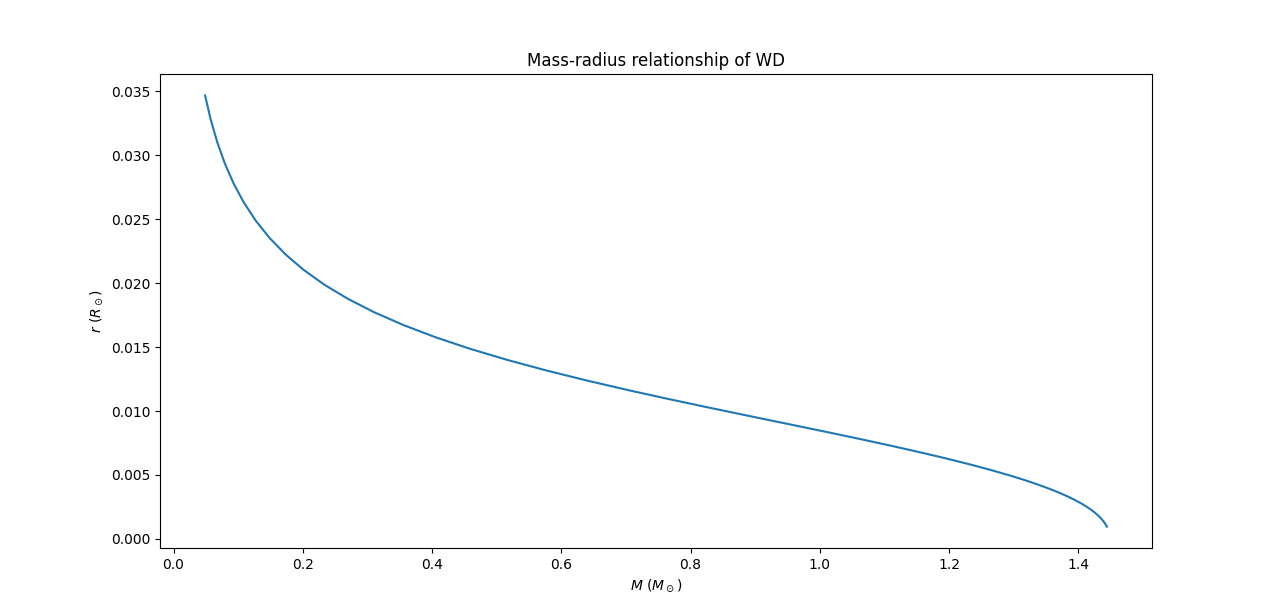
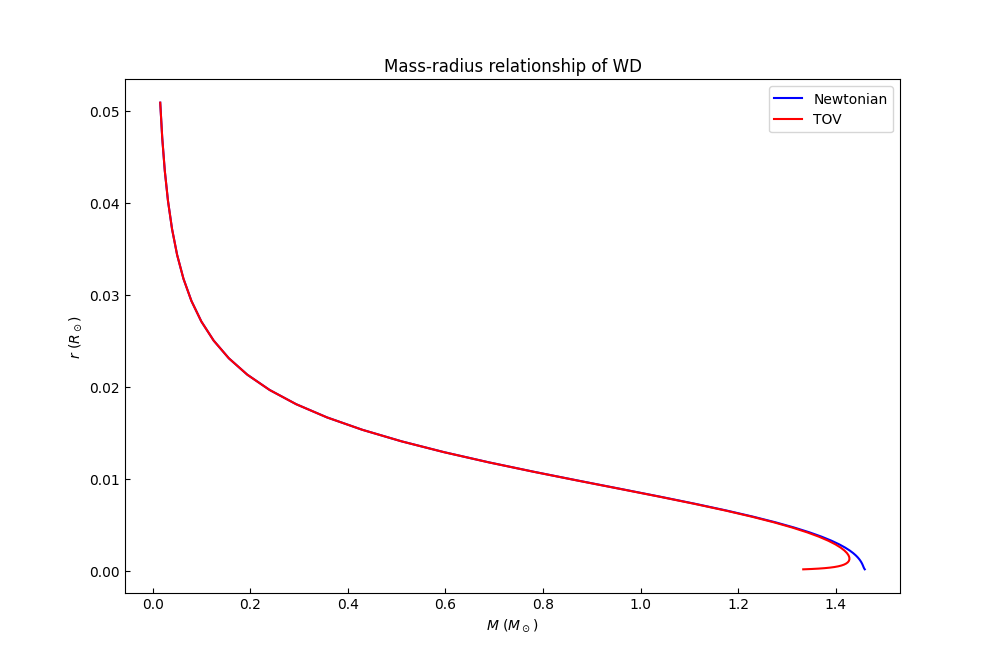
Added graph to compare Newtonian and TOV

diff --git a/main.py b/main.py
@@ -23,32 +23,41 @@ def single_test(rho0=1e9):
 
 def MR_relation(rho_low=3, rho_high=13):
     r0 = 0.0001
-    # P0 = 2.38e16
-    rho0_list = np.logspace(rho_low, rho_high, 20)
+    rho0_list = np.logspace(rho_low, rho_high, 50)
     h = 10000
     totR_list = []
     totM_list = []
+    totR_list_TOV = []
+    totM_list_TOV = []
 
     eos = SolveEOS(r0, h)
 
     for rho0 in rho0_list:
         M0 = 4/3 * cg.pi * r0**3 * rho0
-        r_list, M_list, rho_list, P_list = eos.solve_TOS(M0, rho0, TOV=False, graph_flag=False)
-        # r_list, M_list, rho_list, P_list = fn.RK4(r0, M0, rho0, h, fn.EOS, fn.dMdr, fn.drhodr_Newt)
+
+        r_list, M_list, rho_list, P_list = eos.solve_TOS(M0, rho0, TOV=False, graph_flag=False)       
         total_R = r_list[-1].real
         total_M = M_list[-1].real
 
+        r_list_TOV, M_list_TOV, rho_list_TOV, P_list_TOV = eos.solve_TOS(M0, rho0, TOV=True, graph_flag=False) 
+        total_R_TOV = r_list_TOV[-1].real
+        total_M_TOV = M_list_TOV[-1].real
+
         totR_list.append(total_R)
         totM_list.append(total_M)
+        totR_list_TOV.append(total_R_TOV)
+        totM_list_TOV.append(total_M_TOV)
 
     plt.rcParams['figure.figsize'] = [10, 10]
     fig, ax = plt.subplots()
-    ax.plot(totM_list, totR_list)
+    ax.plot(totM_list, totR_list, c='b', label='Newtonian')
+    ax.plot(totM_list_TOV, totR_list_TOV, c='r', label='TOV')
     ax.set_title('Mass-radius relationship of WD')
     ax.set_ylabel(r'$r$ ($R_\odot$)')
     ax.set_xlabel(r'$M$ ($M_\odot$)')
     ax.tick_params(axis='both', which='major', direction = 'in')
+    ax.legend()
     plt.show()
 
-single_test(1e9)
-# MR_relation()
+# single_test(1e9)
+MR_relation()
